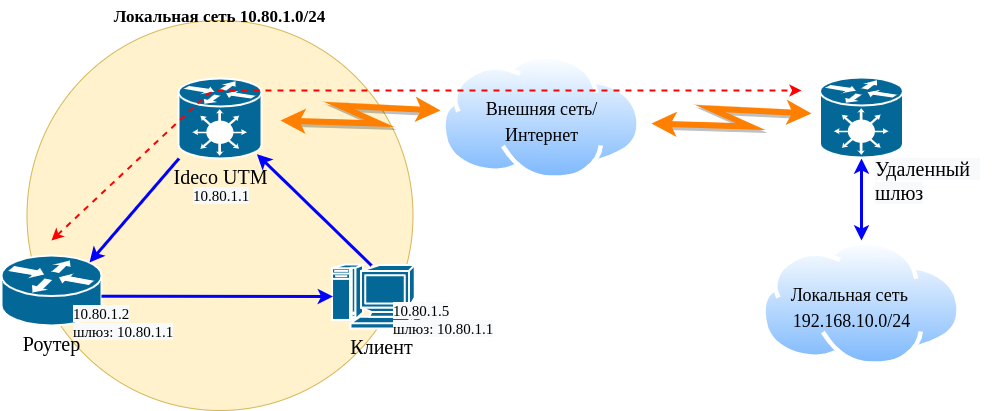
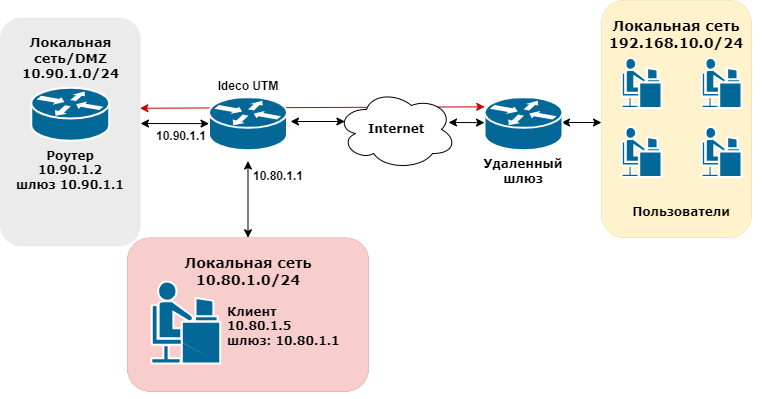
ICS-32088 УТМ. Вычитать статью Доступ в удаленные сети через роутер в локальной сети

diff --git a/recipes/popular-recipes/access-to-remote-networks.md b/recipes/popular-recipes/access-to-remote-networks.md
@@ -1,50 +1,144 @@
-# Доступ в удаленные сети через роутер в локальной сети
+# Как избавиться от асимметричной маршрутизации трафика
 
-## Избавление от непосредственной маршрутизации между роутером и хостами локальной сети.
+Часто при попытке настроить доступ в удаленные сети через роутер в локальной сети возникает асимметричная маршрутизация. Она делает прохождение пакетов между двумя локальными сетями невозможной. В этой статье описаны случаи возникновения асимметричной маршрутизации и способы от нее избавиться.
 
-Допустим, в локальной сети UTM есть роутер, устанавливающий связь с другими сетями (часто с помощью туннеля). UTM является шлюзом по умолчанию для клиентов сети. Требуется настроить маршрутизацию на UTM так, чтобы клиенты получали доступ в удаленную сеть через роутер. Для этого роутер и клиенты локальной сети UTM должны находиться в разных подсетях. Иначе возникнет эффект асимметричной маршрутизации, при которой часть трафика от клиентов до роутера пойдет через шлюз, а часть будет идти непосредственно от роутера абонентам сети. Разная маршрутизация на разных участках прохождения трафика сделает прохождение пакетов между двумя локальными сетями невозможной.
+## Асимметричная маршрутизация при наличии роутера в локальной сети
 
-**Вариант неправильной топологии подобной сети**, при которой возникает непосредственная или асимметричная маршрутизация между роутером и клиентами локальной сети:
+Допустим, в локальной сети UTM есть роутер, устанавливающий связь с другими сетями. UTM - шлюз по умолчанию для клиентов сети. Требуется настроить маршрутизацию на UTM так, чтобы клиенты сети `10.80.1.0/24` получали доступ в удаленную сеть `192.168.10.0/24` и обратно через роутер.
 
-Ideco UTM является шлюзом для локальной сети `10.80.1.0/24`. В этой сети имеется роутер с IP-адресом `10.80.1.2`, который имеет доступ в удаленную сеть `192.168.10.0/24`. Требуется обеспечить доступ хостов сети `10.80.1.0/24` в сеть `192.168.10.0/24` и обратно.
-
-![](../../.gitbook/assets/nets-var1.png)
-
-Красной стрелкой обозначена двусторонняя связь роутера с удаленным шлюзом (или тоже роутером), посредством которой обеспечивается доступ к удаленной сети `192.168.10.0/24`. Это может быть туннель к шлюзу, расположенному в сети Интернет или маршрут до роутера в соседнюю сеть предприятия.
-
-Синими стрелками обозначены участки прохождения трафика от хостов локальной сети UTM `10.80.1.0/24` до удаленной сети `192.168.10.0/24` через шлюз UTM c IP-адресом `10.80.1.1`. Затем через роутер с IP-адресом `10.80.1.2`, и участок возвращаемого хостам локальной сети трафика от роутера, минуя UTM, что приводит к непринятию такого трафика хостами локальной сети.
-
-Для того чтобы схема работала правильно необходимо: 1. Вынести роутер в отдельную локальную сеть (DMZ) (например, `10.90.1.0/24`), чтобы избежать непосредственной маршрутизации между роутером и клиентами локальной сети. 2. Настроить DMZ на UTM, добавив еще один IP-адрес на локальный интерфейс UTM `10.90.1.1/24`, к локальной сети которого подключен роутер. 3. На роутере настроить IP-адрес из адресного пространства новой сети `10.90.1.2`. Шлюзом указать дополнительный IP-адрес, настроенный на локальном интерфейсе UTM из этой сети `10.90.1.1`.
-
-Физически роутер и клиенты локальной сети будут находиться в одном сегменте, имея при этом разную IP-адресацию и шлюзы.
-
-Также можно физически изолировать локальную сеть клиентов UTM и роутер, подключив к Ideco UTM дополнительную сетевую карту. Настроить на ней дополнительный локальный интерфейс и отдельную IP-адресацию в этой сети. Шлюзом для роутера будет являться адрес, настроенный на дополнительном локальном интерфейсе.
-
-Физически роутер будет находиться в сегменте дополнительной сетевой карты. Но как правило схемы с виртуальной изоляцией сетей на основе одного физического интерфейса достаточно.
-
-Топология сети после организации DMZ на основе создания дополнительной сети `10.90.1.0/24` на локальном интерфейсе UTM представлена на схеме ниже:
+Пример **неправильной** топологии сети:
 
 ![](../../.gitbook/assets/nets-var2.png)
 
-## Необходимые настройки на UTM
+Здесь:
 
-Настройка нескольких виртуальных локальных сетей на одном физическом локальном интерфейсе UTM производится в разделе **Сервисы -> Сетевые интерфейсы** и выглядит следующим образом:
+* Ideco UTM - шлюз для локальной сети `10.80.1.0/24`.
+* `10.80.1.2` - роутер, который имеет доступ в удаленную сеть `192.168.10.0/24`. 
+* Красная стрелка - двусторонняя связь роутера с удаленным шлюзом (или тоже роутером), которая обеспечивает доступ к удаленной сети `192.168.10.0/24` (туннель к шлюзу, расположенному в интернете, или маршрут до роутера в соседнюю сеть предприятия).
+* Черные стрелки - трафик от хостов локальной сети `10.80.1.0/24` до удаленной сети `192.168.10.0/24` - через шлюз UTM (`10.80.1.1`) и роутер (`10.80.1.2`). 
+* Пунктирная стрелка - участок трафика, который роутер возвращает хостам локальной сети, минуя UTM, что приводит к непринятию такого трафика хостами локальной сети.
 
-![](../../.gitbook/assets/intarface\_0002.png)
-
-После изоляции роутера в DMZ нужно указать маршрут на UTM до удаленной сети.
-
-Локальная сеть клиентов имеет адресацию `10.80.1.0/24`, адрес роутера в DMZ - `10.90.1.2`, а удаленная сеть, к которой у роутера есть доступ, имеет адресацию `192.168.10.0/24`. В данном случае маршрут на UTM будет иметь следующие параметры:
-
-* **Назначение (DST)**: 192.168.10.0/24;
-* **Шлюз**: 10.90.1.2.
-
-Также можно добавить **Источник (SRC)**, в нашем случае `10.80.1.0/24`, но это не обязательно. Теперь трафик между сетями UTM (`10.80.1.0/24` и `192.168.10.0/24`) во всех направлениях будет направляться через UTM и роутер.
-
-{% hint style="info" %}
-Всегда избегайте указания сети `0.0.0.0/0` в маршрутах.
+{% hint style="warning" %}
+Часть трафика от клиентов до роутера идет через шлюз, а часть - непосредственно от роутера абонентам сети. Разная маршрутизация на разных участках делает прохождение пакетов между двумя локальными сетями невозможной.
 {% endhint %}
 
-## Настройки на клиентских машинах
+## Асимметричная маршрутизация при публикации сайтов через DNAT
 
-Хосты сетей, которые теперь обслуживает UTM (`10.80.1.0/24` и `10.90.1.0/24`) физически включены в один ethernet-сегмент. Шлюзом и DNS-сервером для хостов этих сетей является соответствующий своей сети адрес на локальном интерфейсе UTM. Например, для хоста с адресом `10.80.1.10` шлюзом и DNS будет являться `10.80.1.1`, а для хоста с адресом `10.90.1.15` шлюзом и DNS будет являться `10.90.1.1`.
+Аналогичная ситуация складывается, когда в одной локальной сети находится хост и сервер, на котором работает ресурс, опубликованный в интернете при помощи DNAT-правила:
+
+![](../../.gitbook/assets/nets-var11.png)
+
+* `188.114.8.8` - адрес сайта в интернете;
+* `10.80.1.1` - адрес Ideco UTM в локальной сети;
+* `10.80.1.2` - адрес сервера в локальной сети;
+* `10.80.1.5` - адрес хоста в локальной сети;
+* Красная стрелка - ответ напрямую от сервера хосту в локальной сети.
+
+Когда хост `10.80.1.5` обращается на сайт по внешнему адресу `188.114.8.8` (например, в случае обращения по доменному имени, которое резолвится во внешний IP), трафик проходит через UTM. На UTM срабатывает правило DNAT и перенаправляет трафик на сервер `10.80.1.2`. Однако сервер отвечает непосредственно хосту в обход UTM, и ответ не проходит.
+
+## Пример правильной топологии
+
+![](../../.gitbook/assets/nets-var1.png)
+
+Чтобы схема работала правильно, нужно: 
+
+1\. Вынести роутер в отдельную локальную сеть (DMZ) (например, `10.90.1.0/24`), чтобы избежать асимметричной маршрутизации между роутером и клиентами локальной сети. 
+
+2\. Настроить DMZ на UTM, добавив еще один IP-адрес на локальный интерфейс UTM `10.90.1.1/24`, к локальной сети которого подключен роутер. 
+
+3\. На роутере настроить IP-адрес из адресного пространства новой сети `10.90.1.2`. Шлюзом указать дополнительный IP-адрес, настроенный на локальном интерфейсе UTM из этой сети `10.90.1.1`.
+
+Физически роутер и клиенты локальной сети будут находиться в одном сегменте, имея при этом разную IP-адресацию и шлюзы. Как правило, схемы с виртуальной изоляцией сетей на основе одного физического интерфейса достаточно.
+
+{% hint style="info" %}
+Также можно физически изолировать локальную сеть клиентов UTM и роутер. Для этого: 
+
+* Подключите к Ideco UTM дополнительную сетевую карту.
+* Настройте на ней дополнительный локальный интерфейс и отдельную IP-адресацию в этой сети. 
+* Укажите в качестве шлюза для роутера адрес, настроенный на дополнительном локальном интерфейсе.
+
+Физически роутер будет находиться в сегменте дополнительной сетевой карты.
+{% endhint %}
+
+Чтобы избавиться от асимметричной маршрутизации между клиентами в локальной сети и сервером, нужно выделить в DMZ сервер: 
+
+![](../../.gitbook/assets/nets-var12.png)
+
+<details>
+
+<summary>Настройка UTM</summary>
+
+Чтобы настроить несколько виртуальных локальных сетей на одном физическом локальном интерфейсе UTM, перейдите в раздел **Сервисы -> Сетевые интерфейсы** и выполните действия:
+
+1\. Откройте в режиме редактирования **Локальный интерфейс**, к которому подключены пользователи нужной вам локальной сети (`10.80.1.1/24`), нажав на ![](../../.gitbook/assets/icon-edit.png) напротив его названия.
+
+2\. Если IP-адрес вашей локальной сети был автоматически сконфигурирован через DHCP, снимите галку и введите его вручную:
+
+![](../../.gitbook/assets/nets-var3.png)
+
+3\. Нажмите на ![](../../.gitbook/assets/nets-var4.png) и введите IP-адрес DMZ для изоляции роутера:
+
+![](../../.gitbook/assets/nets-var5.png)
+
+4\. Нажмите **Сохранить**.
+
+После изоляции роутера в DMZ нужно указать маршрут на UTM до удаленной сети. Для этого перейдите в **Сервисы -> Маршрутизация** и выполните действия:
+
+1\. Перейдите на вкладку **Внешние сети** нажмите кнопку **Добавить**.
+
+2\. В поле **Адрес источника** выберите **Создать новый объект**, для которого выберите тип **Подсеть** и введите адрес вашей локальной сети (`10.80.1.0/24`):
+
+![](../../.gitbook/assets/nets-var6.png)
+
+Выберите в качестве источника только что созданный объект.
+
+3\. В поле **Адрес назначения** выберите **Создать новый объект**, для которого выберите тип **Подсеть** и введите адрес внешней сети (`192.168.10.0/24`), в которую нужно настроить доступ:
+
+![](../../.gitbook/assets/nets-var7.png)
+
+Выберите в качестве назначения только что созданный объект.
+
+4\. В поле **Шлюз** выберите **Создать новый объект**, для которого выберите тип **IP-адрес** и введите адрес роутера в DMZ (`10.90.1.2`):
+
+![](../../.gitbook/assets/nets-var8.png)
+
+5\. Сохраните маршрут вида:
+
+![](../../.gitbook/assets/nets-var9.png)
+
+Теперь трафик между сетями UTM (`10.80.1.0/24` и `192.168.10.0/24`) во всех направлениях будет направляться через UTM и роутер.
+
+</details>
+
+<details>
+
+<summary>Настройка клиентских машин</summary>
+
+Хосты сетей, которые теперь обслуживает UTM (`10.80.1.0/24` и `10.90.1.0/24`), физически включены в один ethernet-сегмент. Чтобы шлюзом и DNS-сервером для хостов этих сетей был соответствующий адрес на локальном интерфейсе UTM:
+
+1\. Для хостов из подсети `10.80.1.0/24` укажите шлюзом и DNS-сервером `10.80.1.1`.
+
+2\. Для хостов из подсети `10.90.1.0/24` шлюзом и DNS-сервером укажите `10.90.1.1`.
+
+</details>
+
+{% hint style="warning" %}
+Если по какой-то причине изолировать сервер в DMZ невозможно, создайте на UTM специальное SNAT-правило.
+{% endhint %}
+
+<details>
+
+<summary>Создание на UTM SNAT-правила для избавления асимметричной маршрутизации</summary>
+
+Чтобы сервер `10.80.1.2` не отвечал напрямую на `10.80.1.5`, а посылал ответ на UTM `10.80.1.1`, нужно в разделе **Правила трафика -> Файрвол -> SNAT** создать правило вида:
+
+![](../../.gitbook/assets/nets-var10.png)
+
+Заполните поля:
+
+* Адрес назначения - `10.80.1.2`;
+* Исходящая зона - Локальные интерфейсы;
+  
+В этом случае трафик хоста `10.80.1.5` на внешний адрес сайта `188.114.8.8` будет перенаправлен на адрес сервера `10.80.1.2` правилом DNAT. При этом созданное правило SNAT подменит адрес источника `10.80.1.5` на адрес UTM, пакет приобретает вид: `scr 10.80.1.1 dst 10.80.1.2`. За счет этого ответ от сервера также пройдет через UTM, поскольку пакет будет иметь вид: `scr 10.80.1.2 dst 10.80.1.1`.
+
+</details>

diff --git a/settings/users/authorization/vpn-connection/features.md b/settings/users/authorization/vpn-connection/features.md
@@ -43,3 +43,46 @@
     Например, для **Kaspersky Endpoint Security** нужно добавить сеть для VPN-подключений (по умолчанию `10.128.0.0/16`) в исключения:
 
 ![](../../../../.gitbook/assets/features2.jpg)
+
+## Если нет доступа к локальной сети Филиала
+Если нет доступа к локальным сетям **Филиала** при подключении пo VPN в **Главном Офисе** (при подключении **Главного офиса** и **Филиала** по IPsec):
+
+* Убедитесь, что VPN-сети **Филиала** и **Главного офиса** не пересекаются;
+* Проверьте настройки **Главного Офиса**, обратившись к [статье](../../../services/ipsec/branch-office-and-main-office.md#shag-2.-sozdanie-podklyucheniya-v-glavnom-ofise).
+
+## Если за UTM есть маршрутизатор, выступающий в качестве ядра локальной сети
+
+![](../../../../.gitbook/assets/features6.png)
+
+Если между UTM и хостами локальной сети в качестве ядра сети присутствует роутер, клиенты из VPN-сети не смогут получить доступ к хостам этой локальной сети, даже если на UTM создано правило маршрутизации:
+
+![](../../../../.gitbook/assets/features4.png)
+
+* `192.168.0.0/24` - сеть за роутером, к которой требуется получить доступ из VPN-сети;
+* `172.16.0.2` - адрес роутера в локальной сети UTM.
+
+Причина в том, что хост (`192.168.0.10`) получает пакеты из VPN-сети с адресом источника `src 10.128.0.1`. Ответ с адресом назначения `dst 10.128.0.1` попадает на роутер, но у роутера отсутствует маршрут до указанной сети и трафик не проходит.
+
+Чтобы обеспечить доступ, нужно настроить на роутере маршрут от нужной локальной сети до VPN-сети. Для этого укажите в качестве назначения VPN-сеть (`10.128.0.0\16`), в качестве шлюза - UTM (`172.16.0.1`).
+
+Если настроить на роутере маршрут невозможно, можно создать на UTM SNAT-правило вида:
+
+![](../../../../.gitbook/assets/features5.png)
+
+Для этого: 
+
+1\. Перейдите в раздел **Правила трафика -> Файрвол -> SNAT** и нажмите **Добавить**. 
+
+2\. Укажите следующие параметры:
+
+* Источник - VPN-сеть (`10.128.0.0\16`);
+* Назначение - сеть за роутером, к которой требуется получить доступ из VPN-сети (`192.168.0.0/24`);
+* Шлюз - локальный адрес UTM (`172.16.0.1`).
+
+3\. Нажмите **Сохранить**.
+
+В этом случае при отправке пакетов на роутер UTM подменит IP-адрес источника своим. За счет этого роутер направит ответ от хоста в локальной сети на UTM, который затем перенаправит его в VPN-сеть. 
+
+{% hint style="warning" %}
+При этом у хостов из локальной сети `192.168.0.0/24` не будет доступа к VPN-сети `10.128.0.0\16`.
+{% endhint %} 

diff --git a/settings/publishing-resources/portmapping.md b/settings/publishing-resources/portmapping.md
@@ -46,6 +46,7 @@
 
 * Если на хосте в локальной сети, куда осуществляется проброс порта, шлюзом по умолчанию прописан не Ideco UTM, то установить подключение не получится. Нужно, либо указать шлюзом по умолчанию IP-адрес локального интерфейса Ideco UTM, либо, если подключение происходит с какого-то определённого IP-адреса (сети), то на устройстве прописать маршрут, чтобы ответы для этого IP-адреса (сети) направлялись через IP-адрес локального интерфейса Ideco UTM;
 * Если включен режим **Разрешить интернет всем**, то правила файрвола, включая таблицу DNAT, не работают.
+* Если в одной локальной сети находятся пользователи и сервер, на котором работает ресурс, опубликованный в интернете при помощи DNAT-правила, может возникать асимметричная маршрутизация. Чтобы этого избежать, изучите статью [Как избавиться от асимметричной маршрутизации трафика](../../recipes/popular-recipes/access-to-remote-networks.md) 
 
 </details>
 
@@ -55,7 +56,7 @@
 
 * Проверять работу правила DNAT нужно из внешней сети Интернет. Используйте обратный прокси-сервер для публикации веб-ресурсов, если необходим доступ из локальной сети;
 * Порт на внешнем интерфейсе сервера, с которого будут транслироваться запросы, может отличаться от публикуемого порта самой службы. Например, можно транслировать внешние запросы на порт 4489, а в локальную сеть на порт 3389, чтобы воспрепятствовать автоматическим попыткам подключения вредоносного ПО на популярный сервис;
-* Также, в целях защиты от нежелательных подключений к публикуемой службе, при создании правила рекомендуется указывать IP-адрес или подсеть, с которой разрешено подключаться к публикуемой службе в поле **Источник**;
+* Для защиты от нежелательных подключений к публикуемой службе при создании правила  в поле **Источник** указывайте IP-адрес или подсеть, с которой разрешено подключаться к этой службе;
 * Если осуществляется трансляция на один и тот же номер порта локального сервера, то можно оставить пустым поле **Сменить порт назначения**. Система автоматически переадресует запрос на соответствующий порт устройства в локальной сети.
 
 </details>

diff --git a/SUMMARY.md b/SUMMARY.md
@@ -171,7 +171,7 @@
     * [Создание VPN-подключения на мобильных устройствах](recipes/popular-recipes/vpn/connection-for-mobile-devices.md)
     * [Создание подключения в Mac OS](recipes/popular-recipes/vpn/connection-for-high-sierra-macos.md)
     * [Подключение по SSTP Wi-Fi роутеров Keenetic](recipes/popular-recipes/vpn/sstp-connecting-keenetic-wi-fi-routers.md)
-  * [Доступ в удаленные сети через роутер в локальной сети](recipes/popular-recipes/access-to-remote-networks.md)
+  * [Как избавиться от асимметричной маршрутизации трафика](recipes/popular-recipes/access-to-remote-networks.md)
   * [Что делать если ваш IP попал в черные списки DNSBL](recipes/popular-recipes/dnsbl-list.md)
   * [Как восстановить доступ к Ideco UTM](recipes/popular-recipes/restore-access-to-ideco-utm.md)
   * [Как восстановиться на прошлую версию после обновления Ideco UTM](recipes/popular-recipes/go-back.md)
